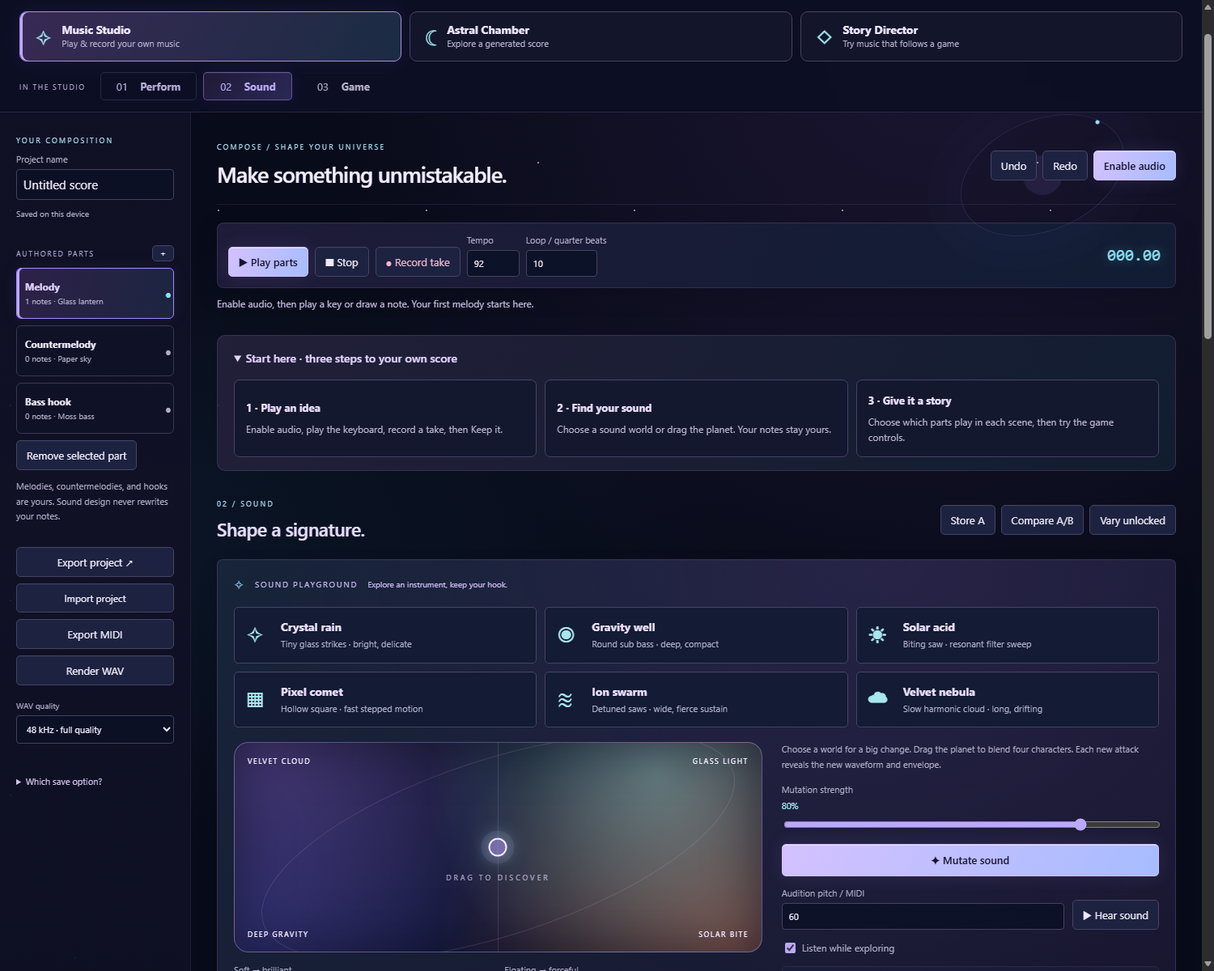
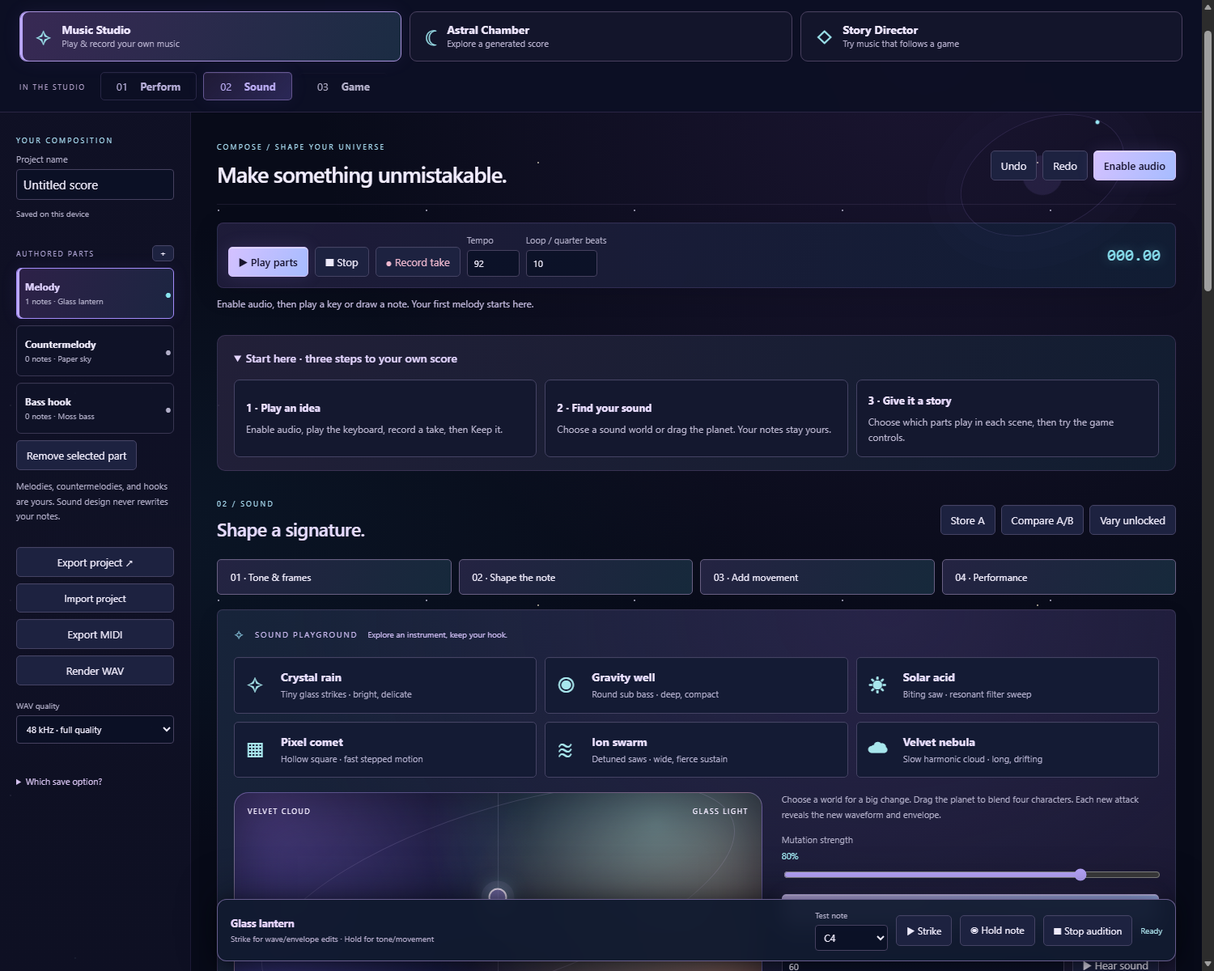
Add researched visual instrument workbench and custom movement synthesis in 0.8

Changed region(s): [[0.184, 0.555, 0.9813, 1.0], [0.184, 0.8942, 0.368, 1.0], [0.9813, 0.3083, 1.0, 0.3392]]

diff --git a/web/studio.html b/web/studio.html
@@ -1,6 +1,6 @@
 <!doctype html>
-<html lang="en"><head><meta charset="utf-8"><meta name="viewport" content="width=device-width,initial-scale=1"><title>Way Music · Authoring studio</title><link rel="stylesheet" href="/web/studio.css"><link rel="stylesheet" href="/web/way-shell.css"></head>
-<body><header><a class="brand" href="/" aria-label="Way Music Lab home"><svg class="orbit-mark" viewBox="0 0 48 48" aria-hidden="true"><circle cx="24" cy="24" r="9" fill="currentColor" opacity=".18"/><circle cx="24" cy="24" r="5" fill="currentColor"/><ellipse cx="24" cy="24" rx="22" ry="9" fill="none" stroke="currentColor" stroke-width="1.2" transform="rotate(-35 24 24)"/><circle cx="39" cy="12" r="2" fill="#86e5ef"/></svg>WAY <span>MUSIC LAB</span></a><span class="version">COSMIC STUDIO / 0.7</span></header><nav class="tool-nav" aria-label="Music tools"><a href="#top" data-tool-link="studio" aria-current="page"><span class="tool-icon" aria-hidden="true">✧</span><span><strong>Music Studio</strong><small>Play & record your own music</small></span></a><a href="/web/index.html" data-tool-link="chamber" ><span class="tool-icon" aria-hidden="true">☾</span><span><strong>Astral Chamber</strong><small>Explore a generated score</small></span></a><a href="/web/director.html" data-tool-link="director" ><span class="tool-icon" aria-hidden="true">◇</span><span><strong>Story Director</strong><small>Try music that follows a game</small></span></a><div class="workspace-nav" role="group" aria-label="Studio workspace"><span>IN THE STUDIO</span><button data-tab="perform" aria-pressed="true">01 <b>Perform</b></button><button data-tab="sound" aria-pressed="false">02 <b>Sound</b></button><button data-tab="game" aria-pressed="false">03 <b>Game</b></button></div></nav>
+<html lang="en"><head><meta charset="utf-8"><meta name="viewport" content="width=device-width,initial-scale=1"><title>Way Music · Authoring studio</title><link rel="stylesheet" href="/web/studio.css"><link rel="stylesheet" href="/web/way-shell.css"><link rel="stylesheet" href="/web/instrument-editor.css"></head>
+<body><header><a class="brand" href="/" aria-label="Way Music Lab home"><svg class="orbit-mark" viewBox="0 0 48 48" aria-hidden="true"><circle cx="24" cy="24" r="9" fill="currentColor" opacity=".18"/><circle cx="24" cy="24" r="5" fill="currentColor"/><ellipse cx="24" cy="24" rx="22" ry="9" fill="none" stroke="currentColor" stroke-width="1.2" transform="rotate(-35 24 24)"/><circle cx="39" cy="12" r="2" fill="#86e5ef"/></svg>WAY <span>MUSIC LAB</span></a><span class="version">COSMIC STUDIO / 0.8</span></header><nav class="tool-nav" aria-label="Music tools"><a href="#top" data-tool-link="studio" aria-current="page"><span class="tool-icon" aria-hidden="true">✧</span><span><strong>Music Studio</strong><small>Play & record your own music</small></span></a><a href="/web/index.html" data-tool-link="chamber" ><span class="tool-icon" aria-hidden="true">☾</span><span><strong>Astral Chamber</strong><small>Explore a generated score</small></span></a><a href="/web/director.html" data-tool-link="director" ><span class="tool-icon" aria-hidden="true">◇</span><span><strong>Story Director</strong><small>Try music that follows a game</small></span></a><div class="workspace-nav" role="group" aria-label="Studio workspace"><span>IN THE STUDIO</span><button data-tab="perform" aria-pressed="true">01 <b>Perform</b></button><button data-tab="sound" aria-pressed="false">02 <b>Sound</b></button><button data-tab="game" aria-pressed="false">03 <b>Game</b></button></div></nav>
 <main><aside><div class="project"><p class="eyebrow">YOUR COMPOSITION</p><label>Project name<input id="project-name" maxlength="100" value="Untitled score"></label><p id="save-state" role="status">Saved on this device</p></div><div class="aside-heading">AUTHORED PARTS <button id="add-part" title="Add part" aria-label="Add part">＋</button></div><div id="parts"></div><button id="remove-part">Remove selected part</button><p class="quiet">Melodies, countermelodies, and hooks are yours. Sound design never rewrites your notes.</p><div class="aside-actions"><button id="save-project">Export project ↗</button><label class="file">Import project<input id="import-project" type="file" accept=".json,application/json"></label><button id="export-midi">Export MIDI</button><button id="export-wav">Render WAV</button><label class="export-quality">WAV quality<select id="export-rate"><option value="48000">48 kHz · full quality</option><option value="44100">44.1 kHz</option><option value="24000">24 kHz · compact</option></select></label></div><details class="save-help"><summary>Which save option?</summary><p><strong>Project</strong> keeps notes, sounds, meters and game settings. Export it as your backup.</p><p><strong>WAV</strong> is the finished audio. <strong>MIDI</strong> is notes for another music tool; it does not carry these synth sounds.</p></details></aside>
 <div class="work"><section class="transport"><div><p class="eyebrow">COMPOSE / SHAPE YOUR UNIVERSE</p><h1 id="workspace-title">Give your world a voice.</h1></div><div class="buttons"><button id="undo" title="Undo project edit">Undo</button><button id="redo">Redo</button><button id="audio" class="accent">Enable audio</button></div></section>
 <div class="session"><button id="play" class="play" aria-label="Play authored parts">▶ Play parts</button><button id="stop">■ Stop</button><button id="record" class="record">● Record take</button><label>Tempo<input id="tempo" type="number" min="40" max="200" value="92"></label><label>Loop / quarter beats<input id="loop" type="number" min="0.25" max="128" step="0.25" value="10"></label><span id="position">000.00</span></div>
@@ -12,10 +12,10 @@
 <div class="note-editor"><label>Pitch / MIDI<input id="note-pitch" type="number" min="0" max="127" value="60"></label><label>Start / beats<input id="note-start" type="number" min="0" max="256" step="0.25" value="0"></label><label>Length / beats<input id="note-length" type="number" min="0.01" max="128" step="0.25" value="0.5"></label><label>Velocity<input id="note-velocity" type="number" min="1" max="127" value="90"></label><label>Bend / semitones<input id="note-bend" type="number" min="-24" max="24" step="0.1" value="0"></label><button id="add-note">Add note</button><button id="update-note">Update selected</button><button id="delete-note">Delete selected</button></div>
 <div class="take"><span id="take-state">Record a take, then choose whether to keep it.</span><button id="keep-take" disabled>Keep take</button><button id="discard-take" disabled>Discard take</button><label class="check"><input id="record-loop" type="checkbox" checked>Loop overdub</label><label class="check"><input id="step-input" type="checkbox">Step input</label></div><div id="note-list" class="note-list"></div></section>
 <section id="sound" class="workspace" hidden><div class="section-heading"><div><p class="eyebrow">02 / SOUND</p><h2>Shape a signature.</h2></div><div class="buttons"><button id="store-a">Store A</button><button id="compare-a">Compare A/B</button><button id="vary">Vary unlocked</button></div></div>
-<div class="panel sound-playground"><div class="panel-title">SOUND PLAYGROUND <span>Explore an instrument, keep your hook.</span></div><div id="sound-worlds" class="sound-worlds"></div><div class="playground-grid"><div><div id="sound-planet" class="sound-planet" role="group" aria-label="Sound planet. Drag to explore, or use the two sliders below."><span class="planet-label top-left">VELVET CLOUD</span><span class="planet-label top-right">GLASS LIGHT</span><span class="planet-label bottom-left">DEEP GRAVITY</span><span class="planet-label bottom-right">SOLAR BITE</span><div id="planet-cursor" class="planet-cursor"></div><span class="planet-instruction">DRAG TO DISCOVER</span></div><div class="planet-axes"><label>Soft → brilliant<input id="planet-x" type="range" min="0" max="1" step="0.01" value="0.5"></label><label>Floating → forceful<input id="planet-y" type="range" min="0" max="1" step="0.01" value="0.5"></label></div></div><div class="playground-actions"><p class="quiet">Choose a world for a big change. Drag the planet to blend four characters. Each new attack reveals the new waveform and envelope.</p><label>Mutation strength <output id="mutation-value">80%</output><input id="mutation-strength" type="range" min="0" max="1" step="0.01" value="0.8"></label><button id="mutate-sound" class="accent">✦ Mutate sound</button><div class="control-row"><label>Audition pitch / MIDI<input id="audition-pitch" type="number" min="24" max="96" value="60"></label><button id="audition-sound">▶ Hear sound</button></div><label class="check"><input id="explore-listen" type="checkbox" checked>Listen while exploring</label><button id="restore-sound">↶ Restore exploration start</button><p id="playground-status" class="quiet" aria-live="polite">Your melody is yours. These controls only change the instrument.</p><p class="quiet">Scalar parameter locks apply to planet blends and mutation. World cards load a complete recipe. Undo is always available.</p></div></div></div>
+<div class="designer-jumps" role="group" aria-label="Instrument sections"><button data-designer-jump="synthesis-panel">01 · Tone & frames</button><button data-designer-jump="envelope-panel">02 · Shape the note</button><button data-designer-jump="movement-panel">03 · Add movement</button><button data-designer-jump="macros-panel">04 · Performance</button></div><div class="panel sound-playground"><div class="panel-title">SOUND PLAYGROUND <span>Explore an instrument, keep your hook.</span></div><div id="sound-worlds" class="sound-worlds"></div><div class="playground-grid"><div><div id="sound-planet" class="sound-planet" role="group" aria-label="Sound planet. Drag to explore, or use the two sliders below."><span class="planet-label top-left">VELVET CLOUD</span><span class="planet-label top-right">GLASS LIGHT</span><span class="planet-label bottom-left">DEEP GRAVITY</span><span class="planet-label bottom-right">SOLAR BITE</span><div id="planet-cursor" class="planet-cursor"></div><span class="planet-instruction">DRAG TO DISCOVER</span></div><div class="planet-axes"><label>Soft → brilliant<input id="planet-x" type="range" min="0" max="1" step="0.01" value="0.5"></label><label>Floating → forceful<input id="planet-y" type="range" min="0" max="1" step="0.01" value="0.5"></label></div></div><div class="playground-actions"><p class="quiet">Choose a world for a big change. Drag the planet to blend four characters. Each new attack reveals the new waveform and envelope.</p><label>Mutation strength <output id="mutation-value">80%</output><input id="mutation-strength" type="range" min="0" max="1" step="0.01" value="0.8"></label><button id="mutate-sound" class="accent">✦ Mutate sound</button><div class="control-row"><label>Audition pitch / MIDI<input id="audition-pitch" type="number" min="24" max="96" value="60"></label><button id="audition-sound">▶ Hear sound</button></div><label class="check"><input id="explore-listen" type="checkbox" checked>Listen while exploring</label><button id="restore-sound">↶ Restore exploration start</button><p id="playground-status" class="quiet" aria-live="polite">Your melody is yours. These controls only change the instrument.</p><p class="quiet">Scalar parameter locks apply to planet blends and mutation. World cards load a complete recipe. Undo is always available.</p></div></div></div>
 <div class="control-row"><label>Sound source<select id="instrument-source"><option value="synth">Designed synthesizer</option><option value="orchestra">Recorded orchestra · VSCO CE</option></select></label></div><div id="recorded-controls" class="control-row" hidden><label>Recorded role<select id="recorded-role"><option value="strings">Strings · violin / cello</option><option value="harp">Harp</option><option value="woodwind">Flute</option><option value="horn">French horn</option><option value="percussion">Percussion · GM drum pitches</option></select></label><label>Articulation<select id="recorded-articulation"><option value="sustain">Sustain / pluck / hit</option><option value="short">Short / staccato</option></select></label><button id="load-recordings">Preload recordings</button><span id="recording-status">95 local recordings · CC0</span></div><div class="control-row"><label>Instrument name<input id="patch-name" maxlength="100"></label><label>Original recipes<select id="preset"><option>Glass lantern</option><option>Paper sky</option><option>Copper wire</option><option>Moss bass</option></select></label><button id="load-preset">Load recipe</button><button id="save-patch">Export patch</button><label class="file">Import patch<input id="import-patch" type="file" accept=".json,application/json"></label></div>
-<section class="guide-card"><details><summary>What the sound controls mean</summary><div class="guide-definitions"><p><strong>Waveform:</strong> the repeating shape that gives a sound its character. Try the worlds first; drawing a shape is optional.</p><p><strong>Envelope:</strong> how quickly a sound starts, holds, and fades. Short attack = immediate; long attack = swelling pad.</p><p><strong>Filter:</strong> a tone control. Lower cutoff removes brightness. Resonance adds a peak or bite.</p><p><strong>Movement / LFO:</strong> a repeating automatic knob turn. Depth is how much; rate is how fast.</p><p><strong>Effects:</strong> drive adds grit; delay adds echoes; feedback makes echoes last longer.</p><p><strong>A/B and locks:</strong> Store A saves a comparison. Lock a setting to protect it during planet blends or mutation. Export patch keeps a reusable instrument.</p></div></details></section><div class="sound-grid"><div id="synthesis-panel" class="panel waveform"><div class="panel-title"><span>OSCILLATOR / WAVETABLE</span><label>Frame<select id="frame"></select></label><button id="add-frame">＋ Frame</button></div><canvas id="wave" width="840" height="190" aria-label="Draw a waveform with the pointer; or edit harmonics below"></canvas><p class="quiet">Draw a cycle to resynthesize eight harmonics, or edit the harmonics below. Oscillator and amplitude-envelope edits apply to the next note. Filters, LFOs, and macros can move held notes.</p><div id="harmonics" class="harmonics"></div><div id="oscillators" class="oscillators"></div></div><div class="panel"><div class="panel-title">AMPLITUDE ENVELOPE</div><svg id="envelope" viewBox="0 0 420 120" role="img" aria-label="Amplitude envelope"></svg><div id="envelope-controls" class="sliders"></div></div><div class="panel"><div class="panel-title">FILTER & MOVEMENT</div><canvas id="filter-view" width="420" height="100" aria-label="Schematic filter cutoff view"></canvas><div id="filter-controls" class="sliders"></div></div><div class="panel"><div class="panel-title">MODULATION ROUTES</div><p class="quiet">Choose a source, destination, and signed depth.</p><div id="routes"></div><button id="add-route">＋ Modulation route</button><label>LFO shape<select id="lfo-shape"><option>sine</option><option>triangle</option><option>square</option></select></label><label class="check"><input id="lfo-sync" type="checkbox">Sync LFO to tempo (rate = quarter beats)</label><div id="fx-controls" class="sliders"></div></div></div>
-<p id="modulation-state" class="quiet">Play a note to see its effective filter and modulation position.</p><div class="panel"><div class="panel-title">PERFORMANCE MACROS <span>Bounded controls for hands and gameplay</span></div><div id="macros" class="macro-row"></div></div></section>
+<section class="guide-card"><details><summary>What the sound controls mean</summary><div class="guide-definitions"><p><strong>Waveform:</strong> the repeating shape that gives a sound its character. Try the worlds first; drawing a shape is optional.</p><p><strong>Envelope:</strong> how quickly a sound starts, holds, and fades. Short attack = immediate; long attack = swelling pad.</p><p><strong>Filter:</strong> a tone control. Lower cutoff removes brightness. Resonance adds a peak or bite.</p><p><strong>Movement / LFO:</strong> a repeating automatic knob turn. Depth is how much; rate is how fast.</p><p><strong>Effects:</strong> drive adds grit; delay adds echoes; feedback makes echoes last longer.</p><p><strong>A/B and locks:</strong> Store A saves a comparison. Lock a setting to protect it during planet blends or mutation. Export patch keeps a reusable instrument.</p></div></details></section><div class="sound-grid"><div id="synthesis-panel" class="panel waveform"><div class="panel-title"><span>OSCILLATOR / WAVETABLE</span><label>Frame<select id="frame"></select></label><button id="add-frame">＋ Frame</button></div><div id="frame-strip" class="frame-strip"></div><div id="frame-tools" class="frame-tools"></div><canvas id="wave" width="840" height="190" aria-label="Draw a waveform with the pointer; or edit harmonics below"></canvas><p class="quiet">Draw a cycle to resynthesize eight harmonics, or edit the harmonics below. Oscillator and amplitude-envelope edits apply to the next note. Filters, LFOs, and macros can move held notes.</p><div id="harmonics" class="harmonics"></div><div id="oscillators" class="oscillators"></div></div><div class="panel" id="envelope-panel"><div class="panel-title">SHAPE THE NOTE / ENVELOPE</div><svg id="envelope" viewBox="0 0 420 120" role="img" aria-label="Amplitude envelope"></svg><p class="quiet">Drag the four handles or use the sliders. Time handles use a logarithmic scale so very short attacks stay editable.</p><div id="envelope-controls" class="sliders"></div></div><div class="panel"><div class="panel-title">FILTER & MOVEMENT</div><canvas id="filter-view" width="420" height="100" aria-label="Schematic filter cutoff view"></canvas><div id="filter-controls" class="sliders"></div></div><div class="panel" id="movement-panel"><div class="panel-title">MOVEMENT & CONNECTIONS</div><div id="movement-designer"></div><details class="route-details"><summary>Fine-tune connection depths</summary><p class="quiet">Positive depth moves upward; negative depth moves downward.</p><div id="routes"></div><button id="add-route">＋ Modulation route</button></details><label>LFO shape<select id="lfo-shape"><option>sine</option><option>triangle</option><option>square</option><option value="custom">Drawn curve</option></select></label><label class="check"><input id="lfo-sync" type="checkbox">Sync LFO to tempo (rate = quarter beats)</label><div id="fx-controls" class="sliders"></div></div></div>
+<p id="modulation-state" class="quiet">Play a note to see its effective filter and modulation position.</p><div class="panel" id="macros-panel"><div class="panel-title">PERFORMANCE MACROS <span>Bounded controls for hands and gameplay</span></div><div id="macros" class="macro-row"></div></div><div class="instrument-dock" role="group" aria-label="Audition your instrument"><div><strong id="dock-name">Your instrument</strong><small>Strike for wave/envelope edits · Hold for tone/movement</small></div><label>Test note<select id="dock-pitch"></select></label><button id="dock-strike">▶ Strike</button><button id="dock-hold" aria-pressed="false">◉ Hold note</button><button id="dock-stop">■ Stop audition</button><span id="dock-state" role="status">Ready</span></div></section>
 <section id="game" class="workspace" hidden><div class="section-heading"><div><p class="eyebrow">03 / GAME</p><h2>Let the world respond.</h2></div><label class="check"><input id="game-enabled" type="checkbox">Enable game mappings</label></div><section class="guide-card"><details><summary>Set up game music · a safe starting path</summary><ol><li>Record a few parts in Perform.</li><li>For each story stage below, tick the parts you want to hear. No ticks means silence.</li><li>Enable game mappings, press Play parts, and choose Title, Opening, or Play.</li><li>Move the simulator sliders: movement adds activity; danger can trigger battle.</li></ol><p>Changes wait for a musical boundary so the score can stay coherent. <strong>Variation</strong> saves instrument choices; <strong>mapping</strong> connects a game value to a sound knob. These controls never write your melody.</p><p><a class="guide-link" href="/web/integration.html">Open the game integration example ↗</a></p></details></section><p class="quiet">Play your authored parts, then move the simulator. Mappings change sound controls, never notes. Later enabled mappings win if they share a destination.</p><div class="panel"><div class="panel-title">NARRATIVE ARRANGEMENT <span id="stage-status">Title</span></div><div class="buttons" id="stage-controls"></div><p class="quiet">Stage changes apply at bar boundaries. Danger enters at 65%; leaving requires two safe bars below 35%. Story cues last four bars. Choose parts and a saved sound variation for each stage; no parts selected means musical silence.</p><div id="scenes"></div></div><div class="telemetry panel" id="telemetry"></div><div class="panel"><div class="panel-title">APPROVED MAPPINGS</div><div id="mappings"></div><button id="add-mapping">＋ Game mapping</button></div><div class="panel variations"><div class="panel-title">AUTHORED PATCH VARIATIONS</div><label>Variation name<input id="variation-name" value="Contemplative" maxlength="80"></label><button id="store-variation">Store variation</button><div id="variations"></div><p class="quiet">Variations snapshot every part's instrument. Recall does not transpose, quantize, or replace your hooks.</p></div><div class="panel"><div class="panel-title">PORTABLE PROJECT</div><p>Parts, patches, meters, mappings, and variations export together as versioned JSON. MIDI carries the notes and meter changes; WAV captures the instruments. Native Unreal audio remains a separate adapter.</p></div></section>
 <section class="keyboard-panel"><div class="keyboard-controls"><label class="check"><input id="keyboard-enabled" type="checkbox" checked>Computer keys</label><label>Octave<input id="octave" type="number" min="0" max="8" value="4"></label><label>Velocity<input id="velocity" type="number" min="1" max="127" value="90"></label><button id="midi-connect">Connect MIDI</button><label>MIDI input<select id="midi-device"><option value="">No MIDI device</option></select></label><button id="panic">All notes off</button></div><details class="keymap"><summary>Customize computer keyboard</summary><label>Key : semitone offset from the selected octave<input id="key-map" maxlength="512" placeholder="A:0, W:1, S:2"></label><button id="apply-keymap">Apply key map</button><button id="reset-keymap">Default key map</button></details><div id="keyboard" class="keyboard" aria-label="Playable piano keyboard"></div><div class="keyboard-footer"><span>Play assigned letters or digits · Z/X octave · C/V velocity (when unassigned)</span><span id="voice-state">0 voices</span></div></section>
 <div class="monitor"><canvas id="scope" width="600" height="66" aria-label="Live output oscilloscope"></canvas><canvas id="spectrum" width="600" height="66" aria-label="Live output frequency spectrum"></canvas><label>Listening level<input id="volume" type="range" min="0" max="100" value="55"></label></div>

diff --git a/web/instrument-editor.css b/web/instrument-editor.css
@@ -1,0 +1,10 @@
+/* Original Way instrument workbench, inspired by documented interaction patterns. */
+.designer-jumps{display:flex;flex-wrap:wrap;gap:9px;margin:18px 0}.designer-jumps button{flex:1;min-width:140px;text-align:left;padding:13px 16px;font-size:12px;border-color:#696083;background:linear-gradient(120deg,#242342,#16293b)}
+.frame-strip{display:grid;grid-template-columns:repeat(auto-fill,minmax(92px,1fr));gap:7px;margin:12px 0}.frame-strip button{padding:6px 7px;min-width:0;background:#0c1429;color:#887cb1;border:1px solid #403b5a}.frame-strip button[aria-pressed=true]{border-color:#9ae4ed;color:#9ae4ed;background:#1a2e42;box-shadow:inset 0 -2px #9ae4ed}.frame-strip svg{display:block;width:100%;height:40px}.frame-strip small{display:block;font-size:10px;margin:3px 0}.frame-tools,.curve-recipes{display:flex;gap:6px;flex-wrap:wrap;margin:12px 0}.frame-tools button,.curve-recipes button{padding:7px 10px;font-size:11px}.frame-tools button{border-color:#4c6177}.curve-recipes button{border-color:#836747;color:#ecd1a6;background:#2b2334}
+#envelope{height:auto;aspect-ratio:420/160;touch-action:none}#envelope circle{cursor:ew-resize;touch-action:none}#envelope circle[data-envelope=sustain]{cursor:ns-resize}#envelope circle:hover,#envelope circle:focus-visible{fill:#9fe7ed;stroke:#fff;outline:none;filter:drop-shadow(0 0 4px #b8a2ff)}
+#movement-curve{display:block;width:100%;height:auto;aspect-ratio:3;touch-action:none;cursor:crosshair;border:1px solid #8b6a4d66;border-radius:8px;background:radial-gradient(ellipse at 100% 0,#73502922,transparent 60%),#0c1427;margin-top:12px}.curve-points{margin:12px 0;font-size:11px;color:#c9b495}.curve-points summary,.route-details summary{cursor:pointer}.curve-point-inputs{display:grid;grid-template-columns:repeat(8,minmax(0,1fr));gap:6px;margin-top:12px}.curve-point-inputs label{min-width:0;text-align:center;color:#d6bc97;font-size:10px}.curve-point-inputs input{writing-mode:vertical-lr;direction:rtl;width:100%;min-width:0;height:80px;accent-color:#e9ba82}
+.visual-connections{display:flex;align-items:center;gap:9px;margin:20px 0 12px}.mod-sources,.mod-targets{display:flex;gap:7px;flex:1;flex-direction:column}.mod-sources button,.mod-targets button{white-space:normal;font-size:11px;min-height:40px;padding:9px 12px;text-align:left}.mod-sources [data-mod-source=lfo]{border-color:#bd905b;color:#f2d1a4;background:#3c2d3d}.mod-sources [data-mod-source=velocity]{border-color:#6cb2c1;color:#b2e7ed;background:#1e3142}.mod-sources button[aria-pressed=true]{outline:2px solid #e9bd85;outline-offset:2px}.mod-targets.choosing-target button{border-color:#e9bd85;background:#413248;box-shadow:0 0 15px #d4aa671c}.mod-targets button:hover{background:#48405a;border-color:#ebc28e}.connection-arrow{color:#e8be87;font-size:24px}.modulation-live{font-size:11px;color:#e8c08e;min-height:18px;font-variant-numeric:tabular-nums}.route-details{font-size:12px;color:#c9bda8;margin:14px 0}.route-details summary{padding:8px 0}.mod-source-lfo{border-left:2px solid #e8b77f;padding-left:9px}.mod-source-velocity{border-left:2px solid #88deec;padding-left:9px}
+.instrument-dock{position:sticky;bottom:12px;z-index:8;display:flex;align-items:center;gap:10px;flex-wrap:wrap;margin-top:20px;padding:12px 16px;background:#111a2ff5;border:1px solid #a18acb99;border-radius:12px;box-shadow:0 -10px 50px #06091170,0 5px 25px #0008;backdrop-filter:blur(12px)}.instrument-dock>div{margin-right:auto;min-width:130px}.instrument-dock strong{display:block;font-size:13px;color:#e8d5ff}.instrument-dock small{display:block;font-size:10px;color:#b5accb;margin-top:4px}.instrument-dock label{font-size:10px;min-width:90px}.instrument-dock select{padding:6px;font-size:12px}.instrument-dock button{font-size:12px;min-height:38px}.instrument-dock #dock-hold[aria-pressed=true]{color:#172338;background:#a0e5ee;border-color:#d2faff;box-shadow:0 0 15px #92e4ee44}.instrument-dock #dock-state{font-size:10px;color:#a7dce6}
+@media(max-width:760px){.designer-jumps{gap:6px}.designer-jumps button{min-width:130px;padding:10px;font-size:11px}.instrument-dock{gap:7px;padding:10px;bottom:5px}.instrument-dock>div{flex-basis:100%}.instrument-dock small{display:none}.instrument-dock button{padding:9px;font-size:11px}.instrument-dock label{min-width:72px}.instrument-dock #dock-state{flex-basis:100%}.visual-connections{gap:6px}.mod-sources button,.mod-targets button{font-size:10px;padding:8px}.frame-strip{grid-template-columns:repeat(auto-fill,minmax(70px,1fr))}}
+
+#movement-panel{grid-column:1/-1}.movement-workbench{display:grid;grid-template-columns:minmax(0,1.3fr) minmax(240px,1fr);gap:24px}.movement-workbench>div{min-width:0}.movement-workbench .visual-connections{margin-top:6px}@media(max-width:760px){.movement-workbench{grid-template-columns:1fr;gap:12px}}

diff --git a/docs/instrument-workbench-research.md b/docs/instrument-workbench-research.md
@@ -1,0 +1,58 @@
+# Instrument creation: interface research and the Way 0.8 workbench
+
+Research date: November 2, 2026. Original analysis and implementation: MIT. This study uses official product documentation and interface examples; it is not a hands-on benchmark of installed commercial plugins or an exhaustive ranking.
+
+The useful common pattern is a short, visible feedback loop: play a note, manipulate a shape, see the connection to the result, compare, and keep the discovery. More controls help when their purpose and effect remain apparent. Way retains its cosmic style and authored-melody workflow while adopting those interaction patterns.
+
+## Reference interfaces
+
+| Reference and primary source | Documented pattern | Design judgement for Way |
+| --- | --- | --- |
+| [Vital](https://vital.audio/) | Animated synthesis views, custom LFO shapes and modulation gestures; its connection workflow can preview modulation. | Put an editable movement shape beside its destinations. Show per-voice movement instead of a purely decorative animation. |
+| [Arturia Pigments](https://www.arturia.com/products/software-instruments/pigments/overview) | Color-coded controls, a responsive Play View, multiple synthesis methods, and drag-and-drop modulation. | Use consistent colors for waveform, envelope and movement tools; keep audition controls available while editing. Our implementation does not reproduce Pigments' screen layout or engines. |
+| [Kilohearts Phase Plant](https://kilohearts.com/docs/phase_plant) and its [modulation guide](https://kilohearts.com/docs/modulation) | Visual generator modules, separate modulation/effect areas, accessible macros, and a source-to-target connection mode. | Make a clear route through Tone → Shape → Movement → Performance. Selecting a source then a target is also a useful keyboard/touch alternative to dragging. |
+| [Xfer Serum 2 manual](https://xferrecords.com/web-manual/serum-2/welcome) | Oscillator/filter editing, module initialization/copying, undo/redo, keyboard audition and a broad synthesis environment. Its [sample-to-wavetable workflow](https://support.xferrecords.com/article/59-converting-samples-to-wavetables) is a separate asset-conversion operation. | Make frame experiments visual and reversible. Offer starting shapes and transformations before requiring a blank-canvas drawing. Treat sample import as a future asset pipeline with provenance, not a cosmetic file-drop control. |
+
+These are references for interaction design. Their vendor code, preset banks, wavetables, screenshots, icons, fonts, logos and skins are not included in Way. Existing source attributions remain in [ATTRIBUTIONS](../ATTRIBUTIONS.md); original code remains under the repository's MIT license.
+
+## Implemented in 0.8
+
+### Tone and frames
+
+Waveform thumbnails make the current wavetable frames visible. Selecting a frame also moves the base scan position to that frame. Copy/delete tools preserve a minimum of one and maximum of sixteen frames. Sine, saw, square and bell starting spectra, plus brighten, soften, hollow and phase inversion, operate on the selected frame. Applying a frame tool switches the first synth oscillator to the harmonic source so the edit is audible on the next attack.
+
+These operations use Way's eight signed harmonic coefficients, not a high-resolution commercial wavetable format. A drawn or generated shape is an approximation within that budget. Phase inversion may mainly change interactions with another oscillator or frame, rather than sounding different on its own.
+
+### Shape the note directly
+
+Four envelope handles edit attack, decay, sustain and release. Time handles use logarithmic ranges so a millisecond attack and a multi-second swell are both reachable. The segments have their own display regions rather than a linear seconds axis; values are labeled explicitly. Keyboard users can focus a handle and use arrow keys, or use the existing sliders. A pointer gesture commits one undo step; cancellation restores the parameter.
+
+Amplitude settings apply to a new attack. The audition dock's Strike button hears that new envelope; Hold keeps a note sounding for continuous tone and movement edits.
+
+### Draw real movement
+
+The movement editor provides sine, rise, fall, gate, bounce and stepped recipes, pointer drawing, and an expandable point-slider editor. Curves are portable arrays of 4–64 values between −1 and 1; recipes create sixteen points. Linear interpolation joins successive values and wraps the final point back to the first. Edits reach the browser synth and offline WAV renderer through the same pure curve evaluator.
+
+This is one repeating, per-note, control-rate LFO. It starts with each attack; it is not an audio-rate oscillator, a global automation timeline, or a multi-modulator sequencer. Free rate and tempo-period settings retain their existing meaning.
+
+### Make connections legible
+
+Movement and playing-strength source chips connect to tone brightness, waveform blend or pitch, using drag-and-drop or source-then-destination buttons. The existing depth editor remains available for signed amounts, source/destination changes and removal. Sources have consistent amber/cyan colors. A new movement connection raises depth and Motion to audible starting values, which Undo can restore.
+
+The live playhead/readout follows an active voice's phase, movement, effective cutoff and wave position. Waveform blending needs the harmonic source and multiple frames. A recorded instrument can respond to filter/pitch movement but does not become a wavetable oscillator.
+
+### Keep listening within reach
+
+The sticky audition dock provides named test pitches, Strike, Hold and Stop audition. It does not write notes or engage step recording. Switching workspaces/parts or losing focus cancels held preview voices. Instrument editing is blocked during a take. A strike releases an existing held preview; normal effect tails can decay. Global Stop/All notes off still clears the shared audio graph.
+
+Section jump buttons avoid scrolling through the full editor to reach a control family. Existing A/B, patch export/import, local project history and game variations retain curves along with the rest of each patch.
+
+## Compatibility and validation
+
+Patch/project versions remain 1. Validation fills missing movement curves in older patches with a sine recipe; existing built-in LFO shapes retain their evaluation. New custom-shape patches require a 0.8-or-newer reader; an older reader can reject the custom shape. Invalid curve lengths, non-finite values and out-of-range points are rejected. Custom-curve morphs resample their inputs and remain bounded. Notes, meter plans and game policies remain separate from sound design.
+
+73 unit/integration tests pass. DOM checks cover frame shaping/copy/deletion, curve recipes, connection creation, keyboard envelope editing and note protection. Native browser checks draw a curve and drag an envelope, audition a held instrument, observe live modulation and stop its preview. A custom movement probe changes rendered PCM with a difference RMS of approximately 0.00710 compared with the same patch at zero modulation depth; this is a functional signal check, not a perceptual-quality score. Existing recording/export and twelve responsive layout checks pass.
+
+## Next synthesis work
+
+The most consequential remaining power increases are more partials/band-limited frame resolution, explicit unison/voice controls, additional independent modulators, audio-rate FM, and prepared sample-to-wavetable import. Those require DSP/resource/asset work beyond this interface pass. A native Unreal renderer is still a separate adapter. The present research does not establish cross-browser equivalence, device latency, physical MIDI behavior or subjective artist-quality results.

diff --git a/docs/authoring-studio.md b/docs/authoring-studio.md
@@ -1,6 +1,6 @@
 # Way Music authoring studio
 
-Version 0.7 provides the Perform, Sound, and Game workflow. The home page is now an authoring studio. Projects start with empty melody, countermelody, and bass-hook parts; the application does not invent their notes. The earlier procedural orchestra and narrative auditions remain available from the sidebar.
+Version 0.8 provides the Perform, Sound, and Game workflow. The home page is now an authoring studio. Projects start with empty melody, countermelody, and bass-hook parts; the application does not invent their notes. The earlier procedural orchestra and narrative auditions remain available from the sidebar.
 
 The [guided rhythm and navigation guide](usability-and-navigation.md) explains the visual meter editor, count preview, shared navigation and first-visit help.
 
@@ -23,6 +23,13 @@ The visual rhythm builder offers presets, tick/accent buttons, bar copying/reord
 The advanced variable meter field accepts the same additive cycles as the earlier tool, for example `7/8:2+2+3, 5/8:3+2, 4/4`. Applying a meter does not modify notes or loop length. Tempo counts quarter notes. Notes may cross bar and loop boundaries; notes starting outside the loop remain saved but do not play or export in the selected loop. Loop length is independently editable.
 
 ## Sound
+
+Use the Tone / Shape / Movement / Performance jump buttons to move through the instrument. The sticky audition dock offers named test notes, Strike for new waveform/envelope attacks, Hold for continuous filter/movement edits, and Stop audition. These previews do not write notes.
+
+Frame thumbnails select an edit frame and move its base scan position. Copy/delete frames or apply a starting spectrum, brighten/soften, hollow, or phase inversion. The first oscillator uses the harmonic source after a frame tool is applied.
+
+Drag an envelope handle, use its arrow-key controls, or adjust the sliders. Time handles use logarithmic display regions, not a linear seconds axis. Draw a movement curve or choose a recipe, then drag its source chip to a target—or click the source followed by a destination. Expand point editing or connection depths for precise adjustments. Movement connections set audible starting depth/Motion values; Undo restores the previous patch. Read the [source-linked workbench research and limits](instrument-workbench-research.md).
+
 
 Each part owns its own instrument patch. Four original starting recipes provide bell/pluck, pad, lead, and bass directions. They contain no third-party recordings or factory presets.
 

diff --git a/README.md b/README.md
@@ -1,6 +1,8 @@
 # Way Music
 
-Version **0.7** provides an **authored music studio** with Perform, Sound, and Game workspaces. Play a customizable computer/MIDI keyboard, record melodies and countermelodies, edit the piano roll, design harmonic/wavetable instruments or choose recorded orchestral sounds per part, save patches and variations, and map gameplay to approved sound and arrangement controls. Projects start with empty musical parts; procedural sound design never replaces your hooks. Read the [studio guide and game-host API](docs/authoring-studio.md).
+Version **0.8** provides an **authored music studio** with Perform, Sound, and Game workspaces. Play a customizable computer/MIDI keyboard, record melodies and countermelodies, edit the piano roll, design harmonic/wavetable instruments or choose recorded orchestral sounds per part, save patches and variations, and map gameplay to approved sound and arrangement controls. Projects start with empty musical parts; procedural sound design never replaces your hooks. Read the [studio guide and game-host API](docs/authoring-studio.md).
+
+The [instrument workbench study and update](docs/instrument-workbench-research.md) adapts interaction ideas from Vital, Pigments, Phase Plant and Serum into drawable movement curves, draggable envelopes, visual frame shaping, source-to-target connections and a persistent audition dock. Curves affect both live audio and WAV export; your authored notes stay intact.
 
 The [guided rhythm and navigation update](docs/usability-and-navigation.md) adds a visual meter builder with audible count preview, beginner guidance, persistent tool/workspace navigation, and a consistent cosmic frame across Studio, Astral Chamber, Story Director, and the game example.
 

diff --git a/ATTRIBUTIONS.md b/ATTRIBUTIONS.md
@@ -89,3 +89,12 @@ The cosmic Sound playground, six sound-world parameter recipes, harmonic morphin
 The 0.6.1 drive correction, audio caching/smoothing, export refinements, frontend optimizations, HTTP caching/range support and measurement scripts are original MIT implementation work; no new dependency or third-party asset was added.
 
 Version 0.7 adds an original visual meter editor/count preview, beginner guidance, shared navigation and cosmic stylesheet under MIT. It uses the existing portable meter contract and native Web Audio APIs; no external UI library, sound, factory preset, font or icon asset was added.
+
+## Version 0.8 instrument-workbench references
+
+- [Vital](https://vital.audio/): visual movement and source-to-target modulation interaction.
+- [Arturia Pigments](https://www.arturia.com/products/software-instruments/pigments/overview): consistent control-family colors and performance-oriented editing.
+- [Kilohearts Phase Plant](https://kilohearts.com/docs/phase_plant) and [modulation documentation](https://kilohearts.com/docs/modulation): modular organization and source/destination selection.
+- [Xfer Serum 2 manual](https://xferrecords.com/web-manual/serum-2/welcome): reversible module editing, keyboard audition and wavetable workflow context.
+
+These are research/design references. The movement evaluator, partial transforms, drawing/connection controls, envelope handles, thumbnails and audition dock are original MIT code. No vendor code, patches, samples, screenshots, fonts, logos or skins are included. See [the research and implementation comparison](docs/instrument-workbench-research.md).

diff --git a/LICENSE-ANALYSIS.md b/LICENSE-ANALYSIS.md
@@ -44,3 +44,7 @@ Adopting an external authoring/rendering engine later is a new licensing decisio
 - The published repository is the standalone music project, excluding the parent research vault, caches, local credentials and unrelated content-generation projects.
 
 This is an engineering assessment of the materials actually included, not a guarantee of worldwide rights clearance or a legal opinion. The practical conclusion for this release is **MIT software, CC0 recordings, and one separately identified CC BY-SA research document**.
+
+## 0.8 instrument-workbench update
+
+The new portable curve/partial functions, browser editing controls, tests and research analysis are original repository work covered by MIT. This update adds no runtime dependency or external instrument asset. Vital, Pigments, Phase Plant and Serum are cited as interface/workflow references; their software, factory content and visual assets are not distributed here. Their vendor licenses are not being applied to the original Way implementation. Any future import of external engine code or factory content needs its own license/provenance review. The existing CC0 recording and separately CC BY-SA theory-document notices remain unchanged.
